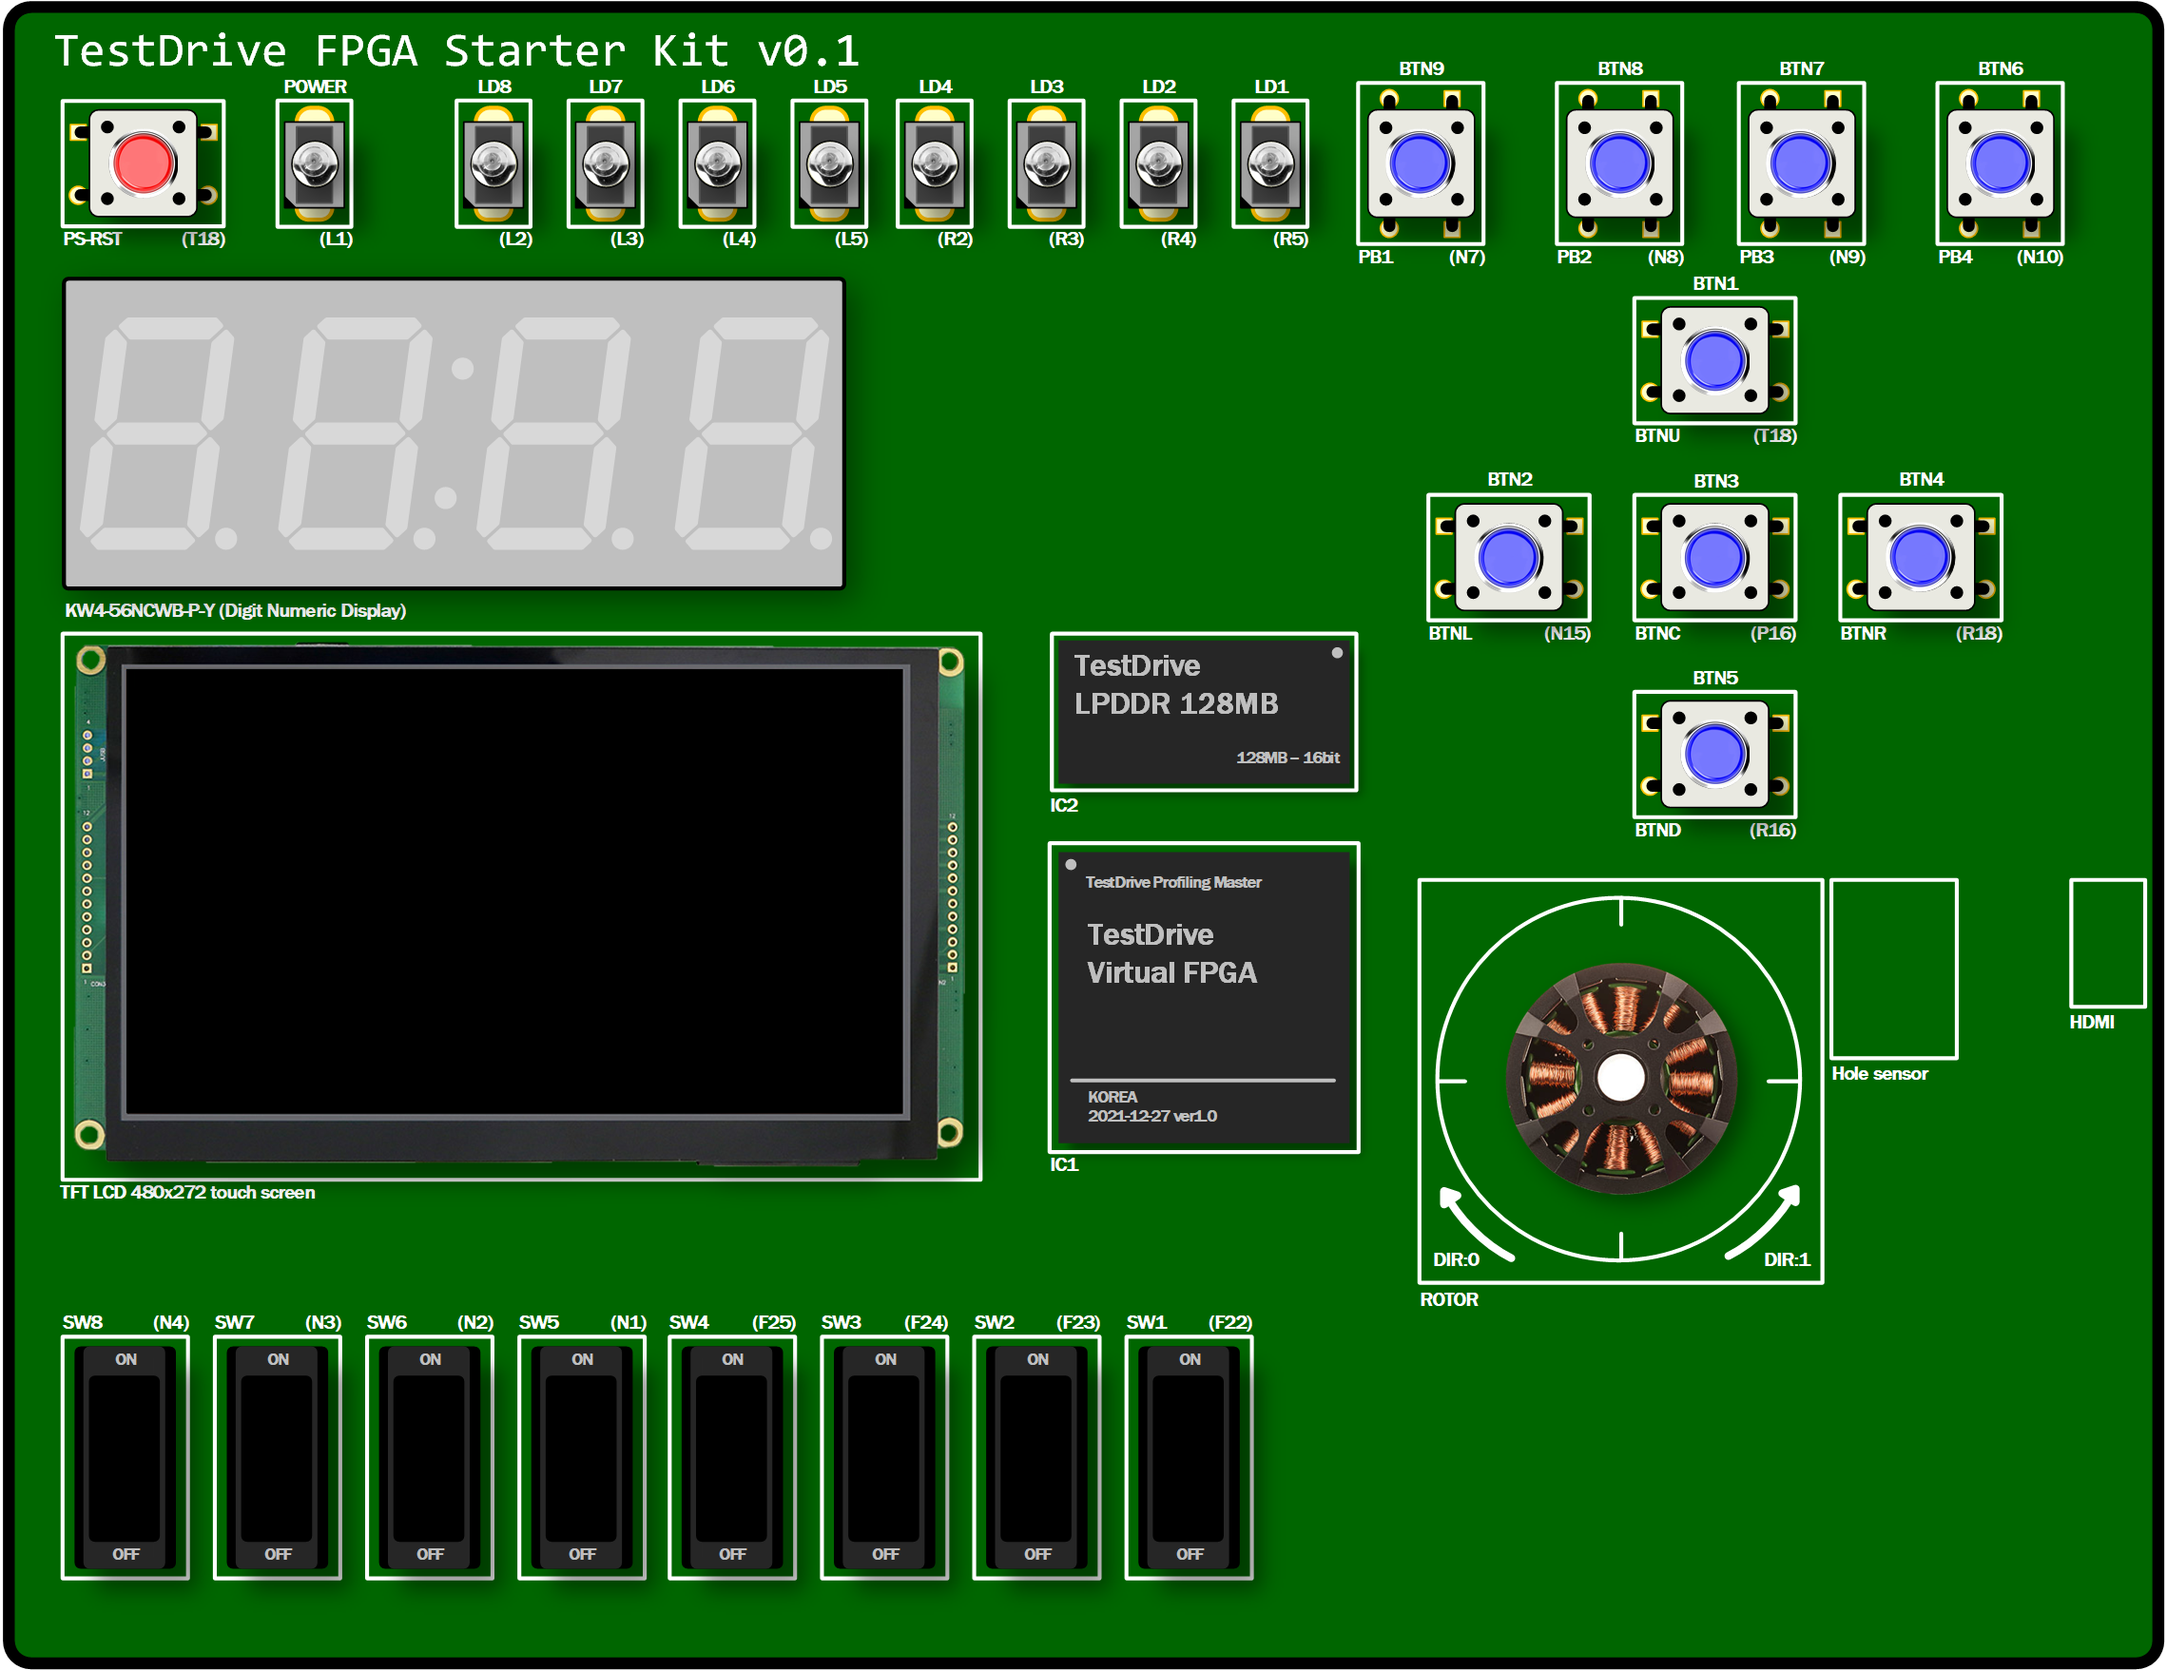
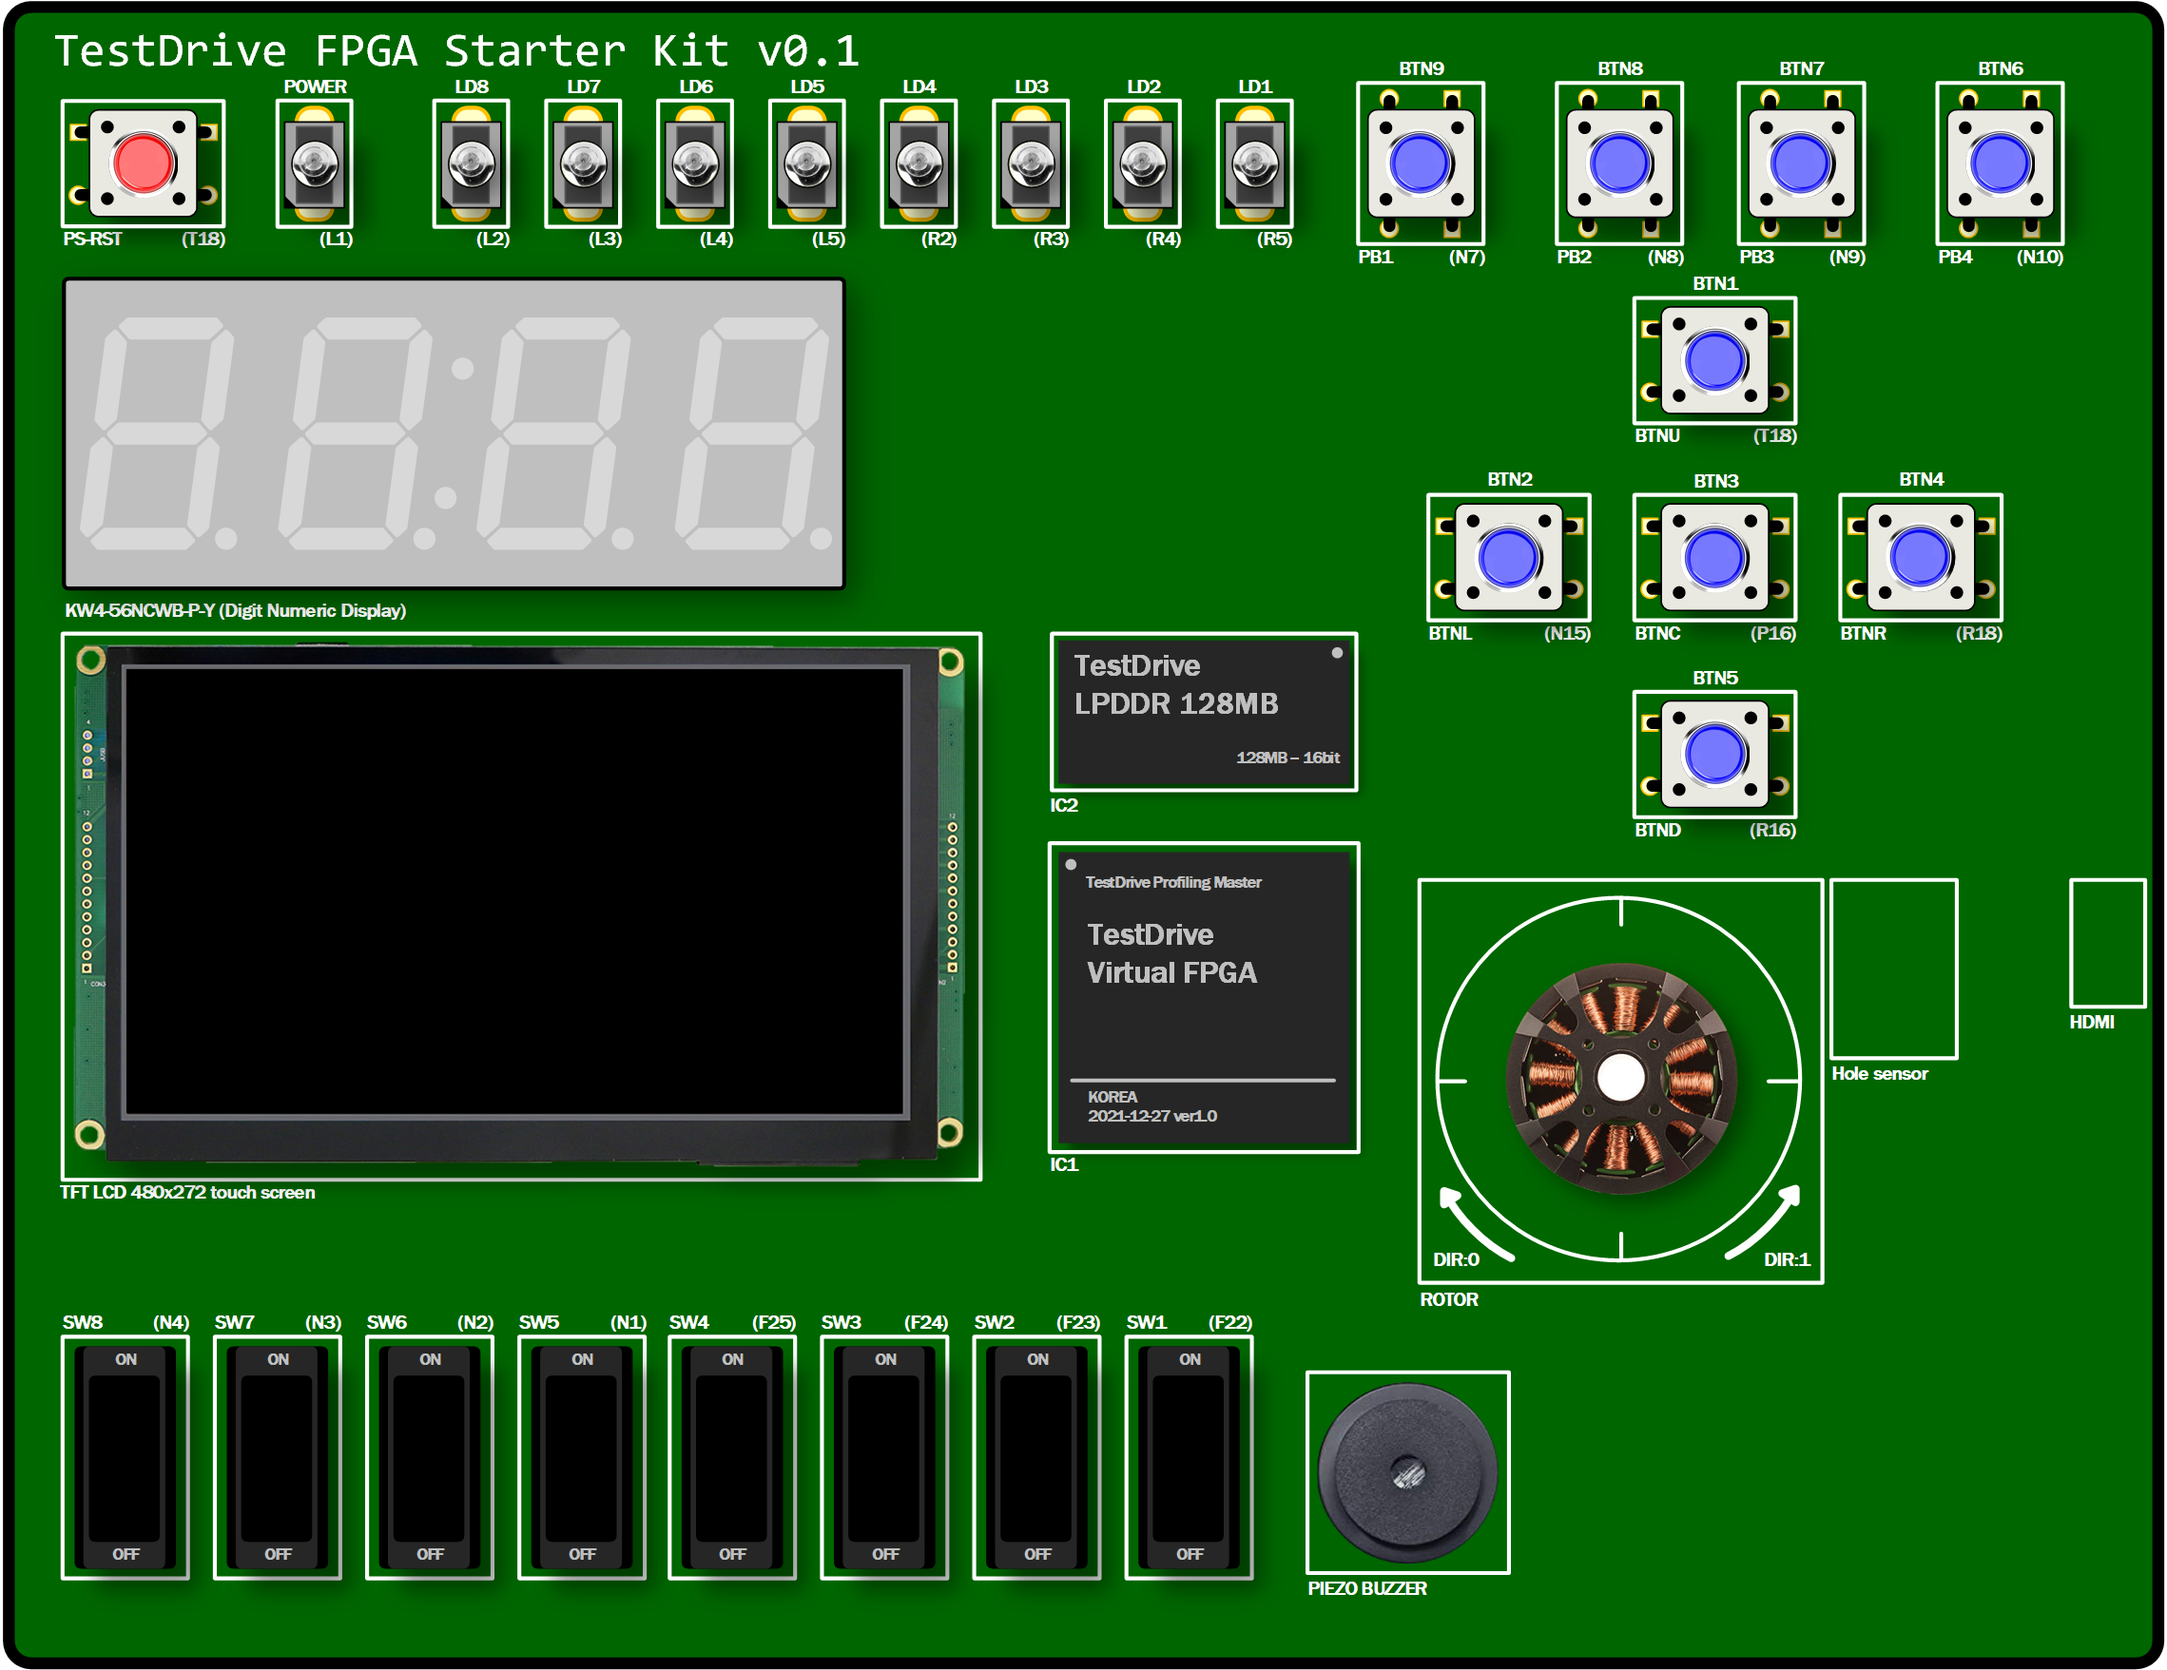
fix StarterKit image

Changed region(s): [[0.1869, 0.0307, 0.6231, 0.1537], [0.5919, 0.7991, 0.7165, 0.9528]]

diff --git a/Meitner/Profiles/FPGA_StarterKit/StarterKit.html b/Meitner/Profiles/FPGA_StarterKit/StarterKit.html
@@ -206,7 +206,7 @@
 							// LED array
 							for(i=0;i<8;i++) {
 								ctx.globalAlpha = led_power[7-i];
-								ctx.drawImage(img_led_green, 355 + 117*i, 9);
+								ctx.drawImage(img_led_green, 330 + 118*i, 9);
 							}
 							// Numeric display #0
 							for(i=0;i<8;i++) {

diff --git a/Meitner/System/HDL/template/StarterKit/dpi_private/StarterKit.cpp b/Meitner/System/HDL/template/StarterKit/dpi_private/StarterKit.cpp
@@ -42,12 +42,17 @@ static Buzzer			__Buzzer;
 static bool __Initialize(void)
 {
 	SetSystemDescription("FPGA Starter Kit");
+
+	if(!g_Sound.Initialize())
+		return false;
+
 	__starter_kit.Initialize();
 	return true;
 }
 
 static void __Finalize(void)
 {
+	g_Sound.ReleaseAll();
 }
 
 StarterKit::StarterKit(void)
@@ -243,7 +248,7 @@ void StarterKit::GetSwitches(DWORD& dwSwitches)
 //-------------------------------------------------------------------------
 // DPI functions
 //-------------------------------------------------------------------------
-void StarterKit_Main(void)
+void StarterKit_MainLoop(void)
 {
 	{
 		DWORD	dwFrequency;

diff --git a/Meitner/System/HDL/template/StarterKit/dpi_private/StarterKit.h b/Meitner/System/HDL/template/StarterKit/dpi_private/StarterKit.h
@@ -38,7 +38,7 @@
 #include "dpi_common.h"
 #include "SystemConfigStarterKit.h"
 #include "Power_Accumulate.h"
-
+#include "DPI_Sound.h"
 
 class StarterKit {
 public:
@@ -60,7 +60,7 @@ private:
 	} m_Motor;
 };
 
-DPI_FUNCTION void StarterKit_Main(void);
+DPI_FUNCTION void StarterKit_MainLoop(void);
 DPI_FUNCTION void StarterKit_LED(const svBitVecVal* pins);
 DPI_FUNCTION void StarterKit_NumericDisplay(const svBitVecVal* pins);
 DPI_FUNCTION void StarterKit_GetButtons(svBitVecVal* pins);

diff --git a/Meitner/System/HDL/template/StarterKit/dpi_private/DPI_Sound.cpp b/Meitner/System/HDL/template/StarterKit/dpi_private/DPI_Sound.cpp
@@ -36,6 +36,8 @@
 #include "DPI_Sound.h"
 #include <math.h>
 
+DPI_Sound		g_Sound;
+
 DPI_Sound::DPI_Sound(void)
 {
 	m_pDevice	= NULL;
@@ -74,6 +76,8 @@ bool DPI_Sound::Initialize(void)
 
 void DPI_Sound::ReleaseAll(void)
 {
+	while(DPI_SoundSource::Head()) delete DPI_SoundSource::Head();
+
 	if(m_pDevice) {
 		if(m_pContext) {
 			alcMakeContextCurrent(NULL);

diff --git a/Meitner/System/HDL/template/StarterKit/dpi_private/DPI_Sound.h b/Meitner/System/HDL/template/StarterKit/dpi_private/DPI_Sound.h
@@ -95,4 +95,6 @@ private:
 	ALuint			m_iSource;
 };
 
+extern DPI_Sound		g_Sound;
+
 #endif//__X_SOUND_H___
